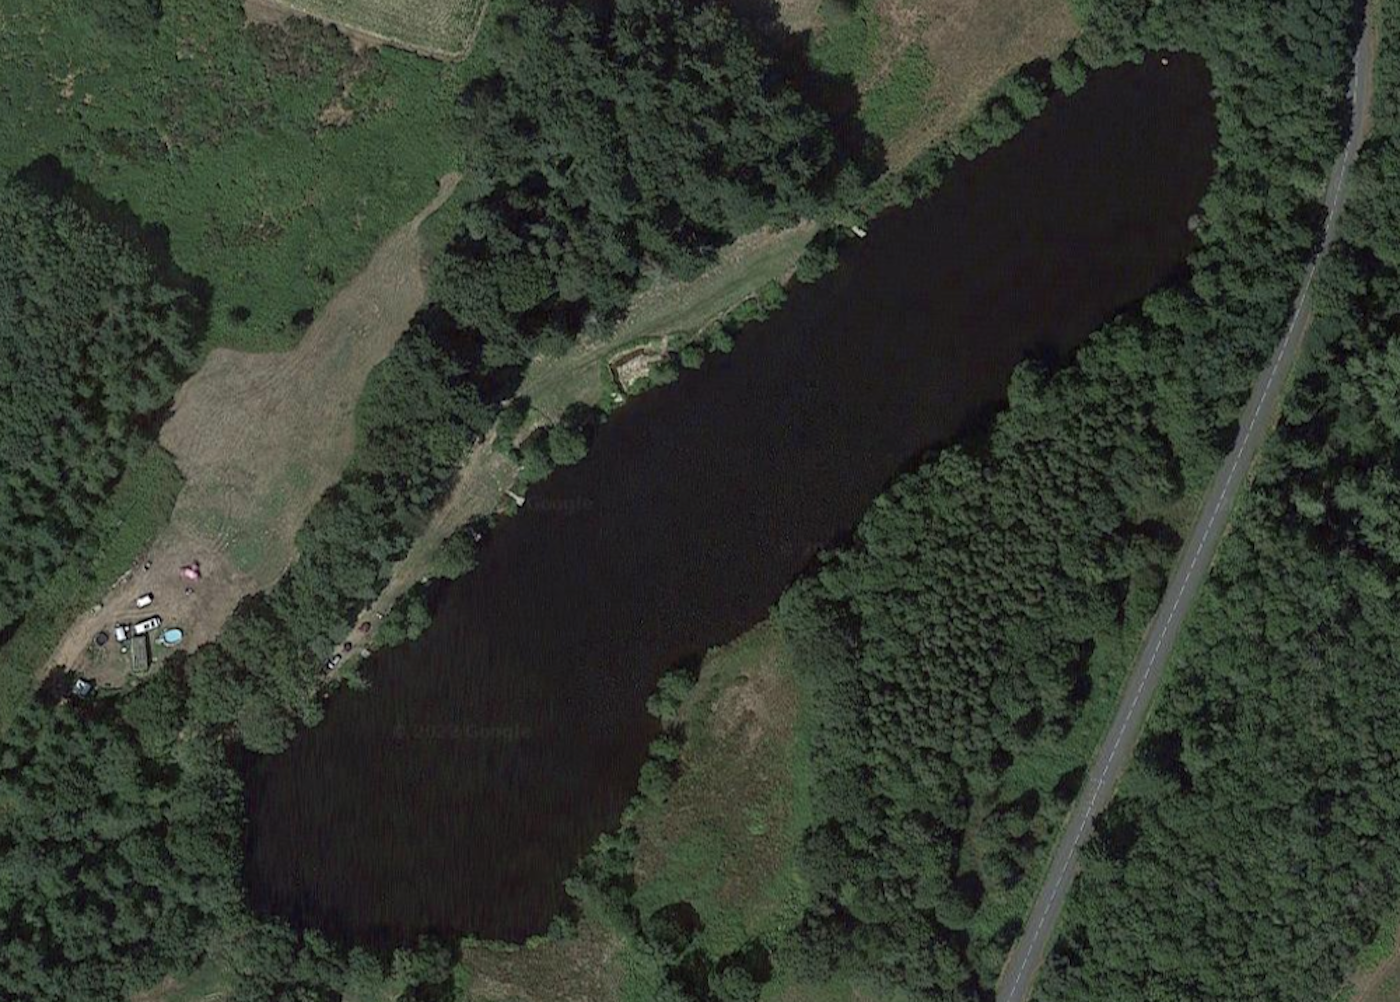
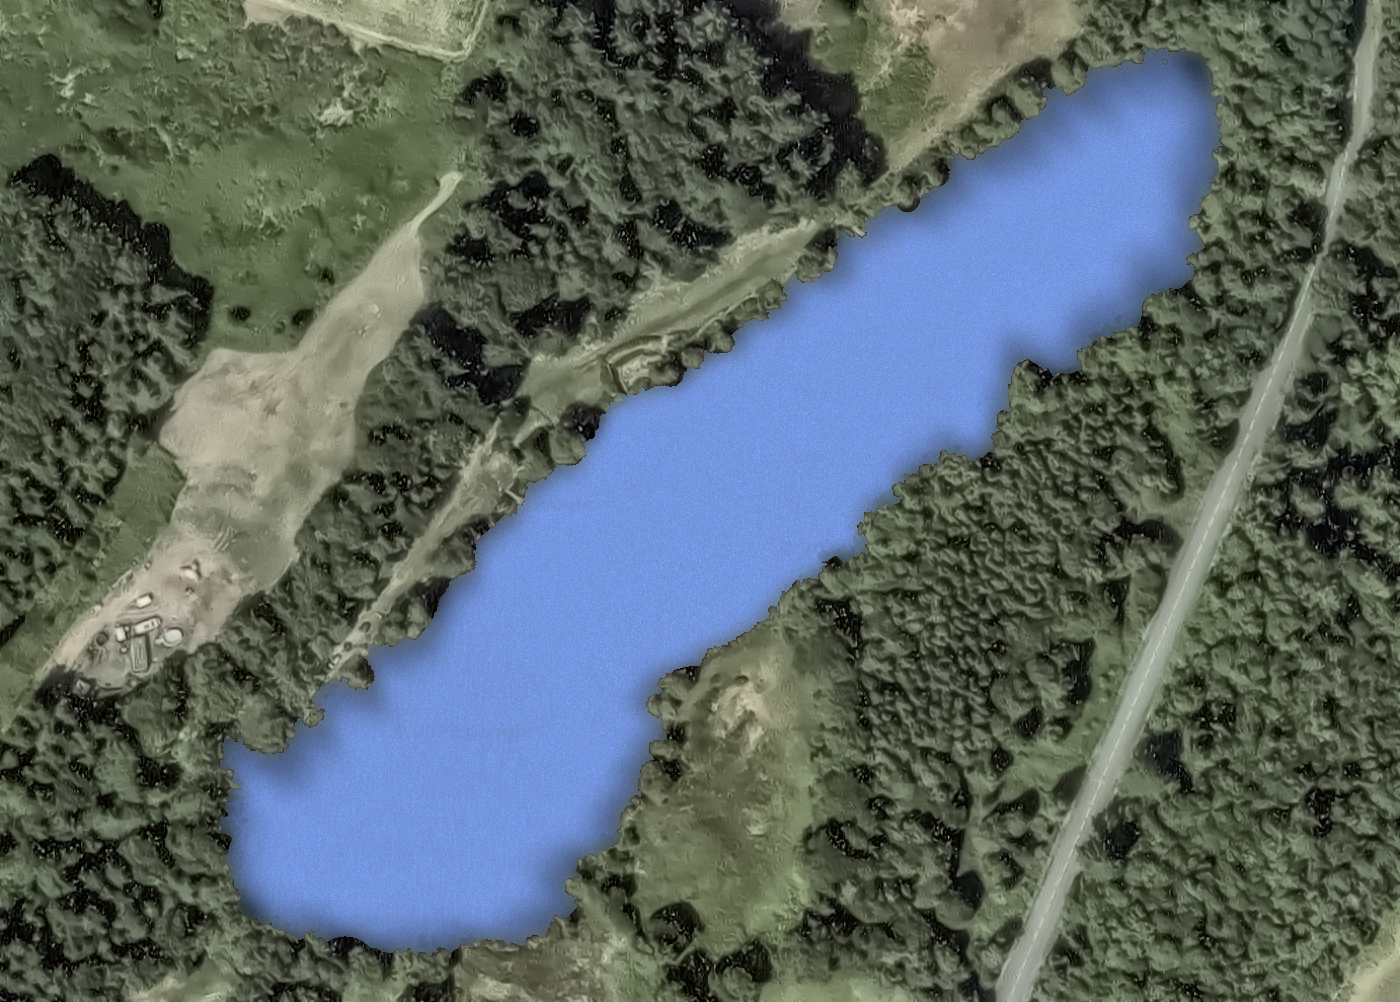
swim map

diff --git a/resources/views/livewire/lake-map.blade.php b/resources/views/livewire/lake-map.blade.php
@@ -6,7 +6,7 @@
                     <img src="{{ $selectedSwim->photo }}" class="lake-map">
                 @endisset
             @else
-                <img src="/img/lake-map.png" class="lake-map">
+                <img src="/img/swim-map.png" class="lake-map">
             @endif
         </div><!-- End of cell-->
         <div class="cell small-12 large-4">

diff --git a/resources/views/pages/index.blade.php b/resources/views/pages/index.blade.php
@@ -6,7 +6,7 @@
 		@include('layout.nav')
 <div class="grid-container full">
 	<div class="grid-x grid-padding-x">
-		<div class="cell small-11 medium-10 large-8">
+		<div class="cell small-11 medium-10 large-9 xl-8">
 			<div class="hero-text">
 					<h1>{{ $page->heading }}</h1>
 					<div class="hero-review show-for-medium">

diff --git a/app/Models/Contact.php b/app/Models/Contact.php
@@ -10,4 +10,9 @@ class Contact extends Model
     use HasFactory;
 
     protected $guarded = [];
+
+    public function booking()
+    {
+        return $this->belongsTo(Booking::class);
+    }
 }
